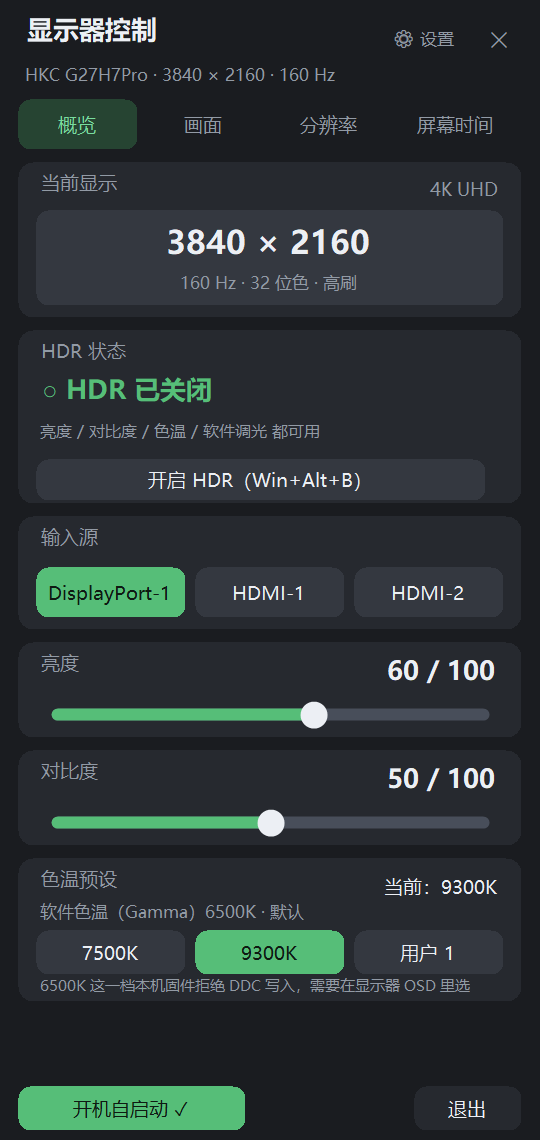
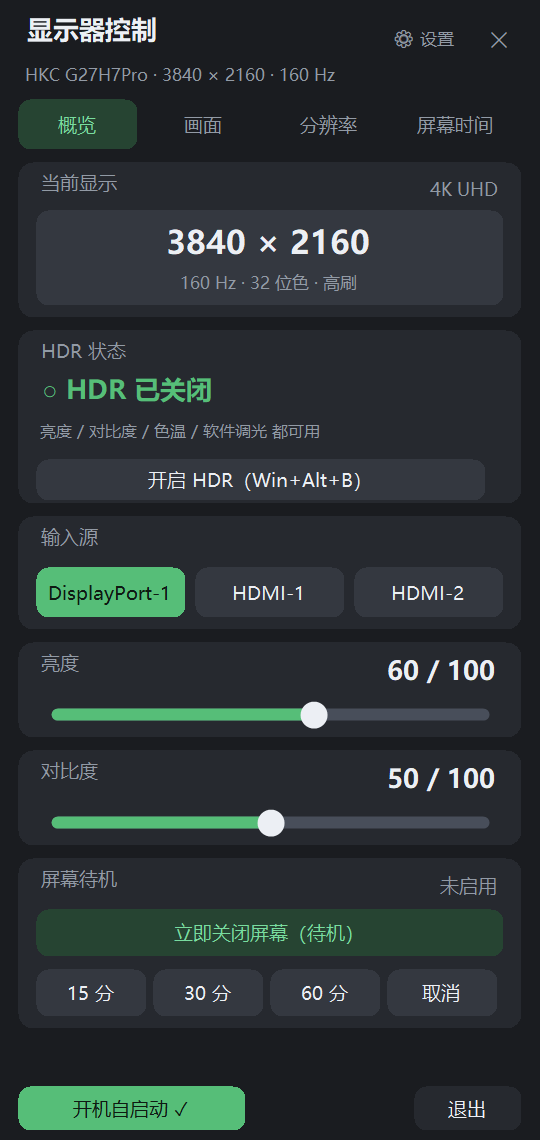
v0.2.0：屏幕待机（立即关屏 + 定时关屏）、色温预设卡移到画面页、--version
新增
- 概览页「屏幕待机」卡：立即关闭屏幕（WM_SYSCOMMAND/SC_MONITORPOWER）+ 15/30/60 分钟定时关屏
  （右上角倒计时、档位高亮、再点同档或「取消」即取消；关掉面板定时照常执行）
- 右键菜单「关闭屏幕（待机）」
- 命令行 --screen-off / --screen-off-in N / --version

调整
- 「色温预设」卡从概览页移到画面页，紧邻软件色温滑杆与场景卡（两层色温对照更直观），
  概览页留给输入源/亮度/对比度/屏幕待机等常用动作

验证
- 用 GUID_CONSOLE_DISPLAY_STATE 电源通知客观确认显示器真的进入待机：displayState 1 → 0 → 1
- 实测发现 DP 待机时 DDC/CI 仍会应答（0xD6 照回 1）、DWM 截图也不变黑，这两者不能作为判据
- 定时器实测：设置后显示「14 分 50 秒后关屏」并在走，再点同档回到「未启用」

文档
- README.md / README.txt / docs/NOTES.md 补充该功能与验证方法；概览、画面两张截图重新抓取

Changed region(s): [[0.0593, 0.7675, 0.9481, 0.8904]]

diff --git a/source/MonitorPanel.cs b/source/MonitorPanel.cs
@@ -2,6 +2,7 @@
 using System.Collections.Generic;
 using System.Drawing;
 using System.Drawing.Drawing2D;
+using System.Runtime.InteropServices;
 using System.Threading;
 using System.Windows.Forms;
 
@@ -84,6 +85,18 @@ internal sealed class MonitorPanel : Form
     private readonly System.Windows.Forms.Timer fadeTimer;
 
     private Label statusLine, colorSoft;
+    private Label sleepStatus;
+    private Button sleepNowBtn, sleepCancelBtn;
+    private Button[] sleepPicks;
+    private System.Windows.Forms.Timer sleepTimer;
+    private DateTime sleepAt = DateTime.MinValue;
+    private int sleepPick = 0;
+    private static readonly int[] SleepMinutes = new int[] { 15, 30, 60 };
+
+    [DllImport("user32.dll")]
+    private static extern IntPtr SendMessage(IntPtr hWnd, uint msg, IntPtr wParam, IntPtr lParam);
+    private const uint WM_SYSCOMMAND = 0x0112;
+    private const int SC_MONITORPOWER = 0xF170;
     private DateTime lastReadUtc = DateTime.MinValue;
     private Button autoStartBtn;
 
@@ -549,25 +562,30 @@ internal sealed class MonitorPanel : Form
         contrastVal.BringToFront();
         inner.Controls.Add(cCard);
 
-        // ---- 色温 ----
-        Panel tCard = MkCard("色温预设", 464, 96);
-        colorStatus = MkLabelTall("", 186, 4, 138, 30, 9.5, CText);
-        colorStatus.TextAlign = ContentAlignment.MiddleRight;
-        colorSoft = MkLabelTall("", 12, 28, 312, 20, 8.5, CAccent);
-        colorButtons = new Button[3];
-        for (int i = 0; i < 3; i++)
+        // ---- 屏幕待机 ----
+        Panel slCard = MkCard("屏幕待机", 464, 114);
+        sleepStatus = MkLabelTall("未启用", 130, 6, 194, 24, 9.5, CDim);
+        sleepStatus.TextAlign = ContentAlignment.MiddleRight;
+        slCard.Controls.Add(sleepStatus);
+        sleepStatus.BringToFront();
+        sleepNowBtn = MkButton("立即关闭屏幕（待机）", 12, 34, 312, 32, delegate { ScreenOffNow(); });
+        sleepNowBtn.BackColor = CTint;
+        sleepNowBtn.ForeColor = CTintText;
+        slCard.Controls.Add(sleepNowBtn);
+        sleepPicks = new Button[SleepMinutes.Length];
+        for (int i = 0; i < SleepMinutes.Length; i++)
         {
-            uint val = ColorValues[i];
-            Button b = MkButton(ColorNames[i], 12 + i * 106, 48, 100, 30, delegate { RunVcp(0x14, val, "色温已切换"); });
-            colorButtons[i] = b;
-            tCard.Controls.Add(b);
+            int mins = SleepMinutes[i];
+            sleepPicks[i] = MkButton(mins + " 分", 12 + i * 78, 74, 74, 32, delegate { PickSleep(mins); });
+            slCard.Controls.Add(sleepPicks[i]);
         }
-        tCard.Controls.Add(MkLabelTall("6500K 这一档本机固件拒绝 DDC 写入，需要在显示器 OSD 里选", 12, 78, 312, 18, 7.5, CDim));
-        tCard.Controls.Add(colorStatus);
-        tCard.Controls.Add(colorSoft);
-        colorStatus.BringToFront();
-        colorSoft.BringToFront();
-        inner.Controls.Add(tCard);
+        sleepCancelBtn = MkButton("取消", 12 + SleepMinutes.Length * 78, 74, 74, 32, delegate
+        {
+            CancelSleepTimer();
+            Status("已取消定时关屏");
+        });
+        slCard.Controls.Add(sleepCancelBtn);
+        inner.Controls.Add(slCard);
         FitInner(inner);
     }
 
@@ -615,7 +633,27 @@ internal sealed class MonitorPanel : Form
         tempVal.BringToFront();
         inner.Controls.Add(wCard);
 
-        Panel sCard = MkCard("场景（一键套用）", 204, 110);
+        // ---- 色温预设（硬件 DDC 0x14）：和软件色温放在一起，方便对照两层 ─---
+        Panel tCard = MkCard("色温预设（显示器硬件）", 204, 96);
+        colorStatus = MkLabelTall("", 186, 4, 138, 30, 9.5, CText);
+        colorStatus.TextAlign = ContentAlignment.MiddleRight;
+        colorSoft = MkLabelTall("", 12, 28, 312, 20, 8.5, CAccent);
+        colorButtons = new Button[3];
+        for (int i = 0; i < 3; i++)
+        {
+            uint val = ColorValues[i];
+            Button b = MkButton(ColorNames[i], 12 + i * 106, 48, 100, 30, delegate { RunVcp(0x14, val, "色温已切换"); });
+            colorButtons[i] = b;
+            tCard.Controls.Add(b);
+        }
+        tCard.Controls.Add(MkLabelTall("6500K 这一档本机固件拒绝 DDC 写入，需要在显示器 OSD 里选", 12, 78, 312, 18, 7.5, CDim));
+        tCard.Controls.Add(colorStatus);
+        tCard.Controls.Add(colorSoft);
+        colorStatus.BringToFront();
+        colorSoft.BringToFront();
+        inner.Controls.Add(tCard);
+
+        Panel sCard = MkCard("场景（一键套用）", 308, 110);
         sceneStatus = MkLabelTall("", 176, 4, 148, 22, 8.5, CText);
         sceneStatus.TextAlign = ContentAlignment.MiddleRight;
         sCard.Controls.Add(sceneStatus);
@@ -630,7 +668,7 @@ internal sealed class MonitorPanel : Form
         sCard.Controls.Add(MkButton("恢复默认（亮度 70 / 对比度 50 / 不调光 / 6500K）", 12, 70, 312, 28, delegate { ResetAll(); }));
         inner.Controls.Add(sCard);
 
-        Panel nCard = MkCard("说明", 322, 100);
+        Panel nCard = MkCard("说明", 426, 100);
         nCard.Controls.Add(MkLabelTall("· 软件调光只压暗画面、不动背光；Windows 要求每通道最亮点 ≥ 50%，所以最暗约 51%，色温越暖能压得越浅", 12, 28, 312, 34, 7.5, CDim));
         nCard.Controls.Add(MkLabelTall("· HDR 开启时，硬件亮度和软件 Gamma 都不生效", 12, 68, 312, 26, 7.5, CDim));
         inner.Controls.Add(nCard);
@@ -804,6 +842,91 @@ internal sealed class MonitorPanel : Form
         else
         {
             modeStatus.Text = err;
+        }
+    }
+
+    // ==================== 屏幕待机 ====================
+    /// 让显示器进入待机（等于电源菜单里的"关闭显示器"；动一下鼠标或按键盘唤醒）
+    public void ScreenOff()
+    {
+        HidePanel();
+        try
+        {
+            SendMessage(Handle, WM_SYSCOMMAND, (IntPtr)SC_MONITORPOWER, (IntPtr)2);
+        }
+        catch { }
+    }
+
+    private void ScreenOffNow()
+    {
+        CancelSleepTimer();
+        Status("显示器已进入待机（动一下鼠标或按键盘唤醒）");
+        Application.DoEvents();      // 先把状态行画出来，再关屏
+        ScreenOff();
+    }
+
+    /// 定时关屏；再点同一档 = 取消
+    private void PickSleep(int minutes)
+    {
+        if (sleepPick == minutes)
+        {
+            CancelSleepTimer();
+            Status("已取消定时关屏");
+            return;
+        }
+        if (sleepTimer == null)
+        {
+            sleepTimer = new System.Windows.Forms.Timer();
+            sleepTimer.Interval = 1000;
+            sleepTimer.Tick += delegate { TickSleep(); };
+        }
+        sleepPick = minutes;
+        sleepAt = DateTime.Now.AddMinutes(minutes);
+        sleepTimer.Start();
+        Status("已设置 " + minutes + " 分钟后关闭屏幕");
+        RefreshSleepUi();
+    }
+
+    private void TickSleep()
+    {
+        if (sleepAt == DateTime.MinValue) return;
+        if ((sleepAt - DateTime.Now).TotalSeconds <= 0)
+        {
+            CancelSleepTimer();
+            Status("定时到：显示器进入待机（动一下鼠标或按键盘唤醒）");
+            Application.DoEvents();
+            ScreenOff();
+            return;
+        }
+        RefreshSleepUi();
+    }
+
+    private void CancelSleepTimer()
+    {
+        sleepPick = 0;
+        sleepAt = DateTime.MinValue;
+        if (sleepTimer != null) sleepTimer.Stop();
+        RefreshSleepUi();
+    }
+
+    private void RefreshSleepUi()
+    {
+        if (sleepStatus == null) return;
+        if (sleepAt != DateTime.MinValue)
+        {
+            TimeSpan left = sleepAt - DateTime.Now;
+            if (left.TotalSeconds < 0) left = TimeSpan.Zero;
+            sleepStatus.Text = ((int)left.TotalMinutes) + " 分 " + left.Seconds.ToString("00") + " 秒后关屏";
+            sleepStatus.ForeColor = CAccent;
+        }
+        else
+        {
+            sleepStatus.Text = "未启用";
+            sleepStatus.ForeColor = CDim;
+        }
+        if (sleepPicks != null)
+        {
+            for (int i = 0; i < sleepPicks.Length; i++) SetButtonActive(sleepPicks[i], sleepPick == SleepMinutes[i]);
         }
     }
 

diff --git a/source/MonitorSwitchTray.cs b/source/MonitorSwitchTray.cs
@@ -426,6 +426,9 @@ internal sealed class TrayApp : ApplicationContext
         ToolStripMenuItem openSet = new ToolStripMenuItem("设置…（快捷键）");
         openSet.Click += delegate { OpenSettings(); };
         menu.Items.Add(openSet);
+        ToolStripMenuItem sleepItem = new ToolStripMenuItem("关闭屏幕（待机）");
+        sleepItem.Click += delegate { ScreenOffOnce(); };
+        menu.Items.Add(sleepItem);
 
         menu.Items.Add(new ToolStripSeparator());
         ToolStripMenuItem refresh = new ToolStripMenuItem("刷新状态");
@@ -650,6 +653,56 @@ internal sealed class TrayApp : ApplicationContext
             }
         }
         catch { }
+    }
+
+    [DllImport("user32.dll")]
+    private static extern IntPtr SendMessage(IntPtr hWnd, uint msg, IntPtr wParam, IntPtr lParam);
+    private const uint WM_SYSCOMMAND = 0x0112;
+    private const int SC_MONITORPOWER = 0xF170;
+
+    /// 版本号（发版时改这里；--version 会打印）
+    public const string AppVersion = "0.2.0";
+
+    /// 建一个屏幕外的隐藏窗口（用来承载 SC_MONITORPOWER 消息，不需要托盘实例）
+    private static Form MakeHiddenSender()
+    {
+        Form f = new Form();
+        f.ShowInTaskbar = false;
+        f.FormBorderStyle = FormBorderStyle.None;
+        f.StartPosition = FormStartPosition.Manual;
+        f.Location = new Point(-4000, -4000);
+        f.Size = new Size(1, 1);
+        f.Show();
+        return f;
+    }
+
+    /// 立即关屏（显示器进入待机；动一下鼠标或按键盘唤醒）
+    public static void ScreenOffOnce()
+    {
+        Form f = MakeHiddenSender();
+        try { SendMessage(f.Handle, WM_SYSCOMMAND, (IntPtr)SC_MONITORPOWER, (IntPtr)2); }
+        catch { }
+        Application.DoEvents();
+        f.Close();
+        f.Dispose();
+    }
+
+    /// 命令行用：N 分钟后关屏（本进程驻留到关屏后自己退出）
+    public static void ScreenOffLater(int minutes)
+    {
+        Form f = MakeHiddenSender();
+        System.Windows.Forms.Timer t = new System.Windows.Forms.Timer();
+        t.Interval = minutes * 60 * 1000;
+        t.Tick += delegate
+        {
+            t.Stop();
+            t.Dispose();
+            try { SendMessage(f.Handle, WM_SYSCOMMAND, (IntPtr)SC_MONITORPOWER, (IntPtr)2); }
+            catch { }
+            f.Close();
+        };
+        t.Start();
+        Application.Run(f);
     }
 
     /// --panel-demo：面板摆在固定位置（不依赖鼠标），seconds 秒后自动退出，用于截图核对
@@ -989,6 +1042,28 @@ internal static class Program
             }
             catch { }
             string a0 = args[0].ToLowerInvariant();
+            if (a0 == "--version" || a0 == "-v")
+            {
+                Console.WriteLine("MonitorControl v" + TrayApp.AppVersion);
+                return 0;
+            }
+            if (a0 == "--screen-off")
+            {
+                TrayApp.ScreenOffOnce();
+                return 0;
+            }
+            if (a0 == "--screen-off-in")
+            {
+                int mins;
+                if (args.Length < 2 || !int.TryParse(args[1], out mins) || mins <= 0)
+                {
+                    Console.Error.WriteLine("用法: --screen-off-in 30");
+                    return 1;
+                }
+                Console.WriteLine("已设置 " + mins + " 分钟后关闭屏幕（本进程会驻留到关屏后自动退出）");
+                TrayApp.ScreenOffLater(mins);
+                return 0;
+            }
             if (a0 == "--set-mode" && args.Length >= 4)
             {
                 int mw, mh, mhz;

diff --git a/docs/NOTES.md b/docs/NOTES.md
@@ -80,6 +80,29 @@ MCCS 能力字符串：
 - 快捷键：显示器切到 HDMI-1（本机画面不可见）后按 `Ctrl+Shift+1` 成功切回 DisplayPort-1
 - 屏幕时间：采样 70 秒后落盘「亮屏 1 分钟 / 使用中 1 分钟」
 
+## 关屏（屏幕待机）怎么客观验证
+
+用 `WM_SYSCOMMAND` + `SC_MONITORPOWER(2)` 让显示器进待机（动鼠标/按键唤醒，
+`SC_MONITORPOWER(-1)` 可主动点亮）。**向本进程自己创建的隐藏窗口发这个消息同样有效**，不需要抢前台。
+
+判据很关键 —— 下面这两个都**不能**用来判断屏幕是否真的关了：
+
+- DDC/CI 读数：显示器进 DP 待机后 DDC 总线仍会应答，`0xD6`（电源模式）照样回 1
+- 屏幕截图：DWM 仍在合成，`CopyFromScreen` 拍到的画面亮度和关屏前一模一样
+
+可靠判据是注册 Windows 的电源设置通知 `GUID_CONSOLE_DISPLAY_STATE`
+（`6FE69556-704A-47A0-8F24-C28D936FDA47`，`WM_POWERBROADCAST` + `PBT_POWERSETTINGCHANGE`，
+数据 1 字节：0=关 1=开 2=变暗）。本机实测：
+
+```
+registered=True mode=self t=0
+t=0s  displayState=1      ← 亮着
+t=2s  发送 SC_MONITORPOWER(2) -> 自身窗口
+t=2s  displayState=0      ← 系统确认：显示器已关
+```
+
+面板按钮这条路径同样实测通过（`displayState 1 → 点按钮 → 0 → 动鼠标 → 1`）。
+
 ## 修复记录
 
 **第一轮**（面板可用性）
@@ -105,6 +128,13 @@ MCCS 能力字符串：
 1. 场景与"色温预设"的关系讲清楚：场景调的是**软件色温（Gamma）**，色温预设那 3 个按钮是**显示器硬件 DDC `0x14`**，两层不是一回事、按钮不会跟着场景跳。色温卡里新增会动的一行「软件色温（Gamma）3600K · 夜间 场景」
 2. 页签切换改成瞬间：切页签不再每次跑一遍 DDC 读取（沿用上次读数，超过 2 秒才重读）；4 个页面/卡片容器全部双缓冲；`DisplayModes.List()` 加 3 秒缓存（原来每画一行分辨率都要枚举 200 多个模式）。实测点击页签后 200 毫秒截图，页面已完整渲染
 3. 去掉"亮度/对比度/色温预设"三张卡片标题下面那行无用小字，卡片高度相应收紧
+
+**第四轮**（用户反馈：加屏幕待机）
+
+1. 新增"屏幕待机"卡（概览页底部）：立即关屏 + 15/30/60 分钟定时（带倒计时，再点同档取消）+ 取消
+2. 为腾位置把"色温预设"卡从概览页挪到画面页（和软件色温/场景放一起，两层对照更直观）
+3. 右键菜单加"关闭屏幕（待机）"；命令行加 `--screen-off` / `--screen-off-in N`
+4. 关掉面板后定时器继续走（定时器属于窗体，不随可见性停止）
 
 **界面**（参考 MonitorBar 调整）
 
